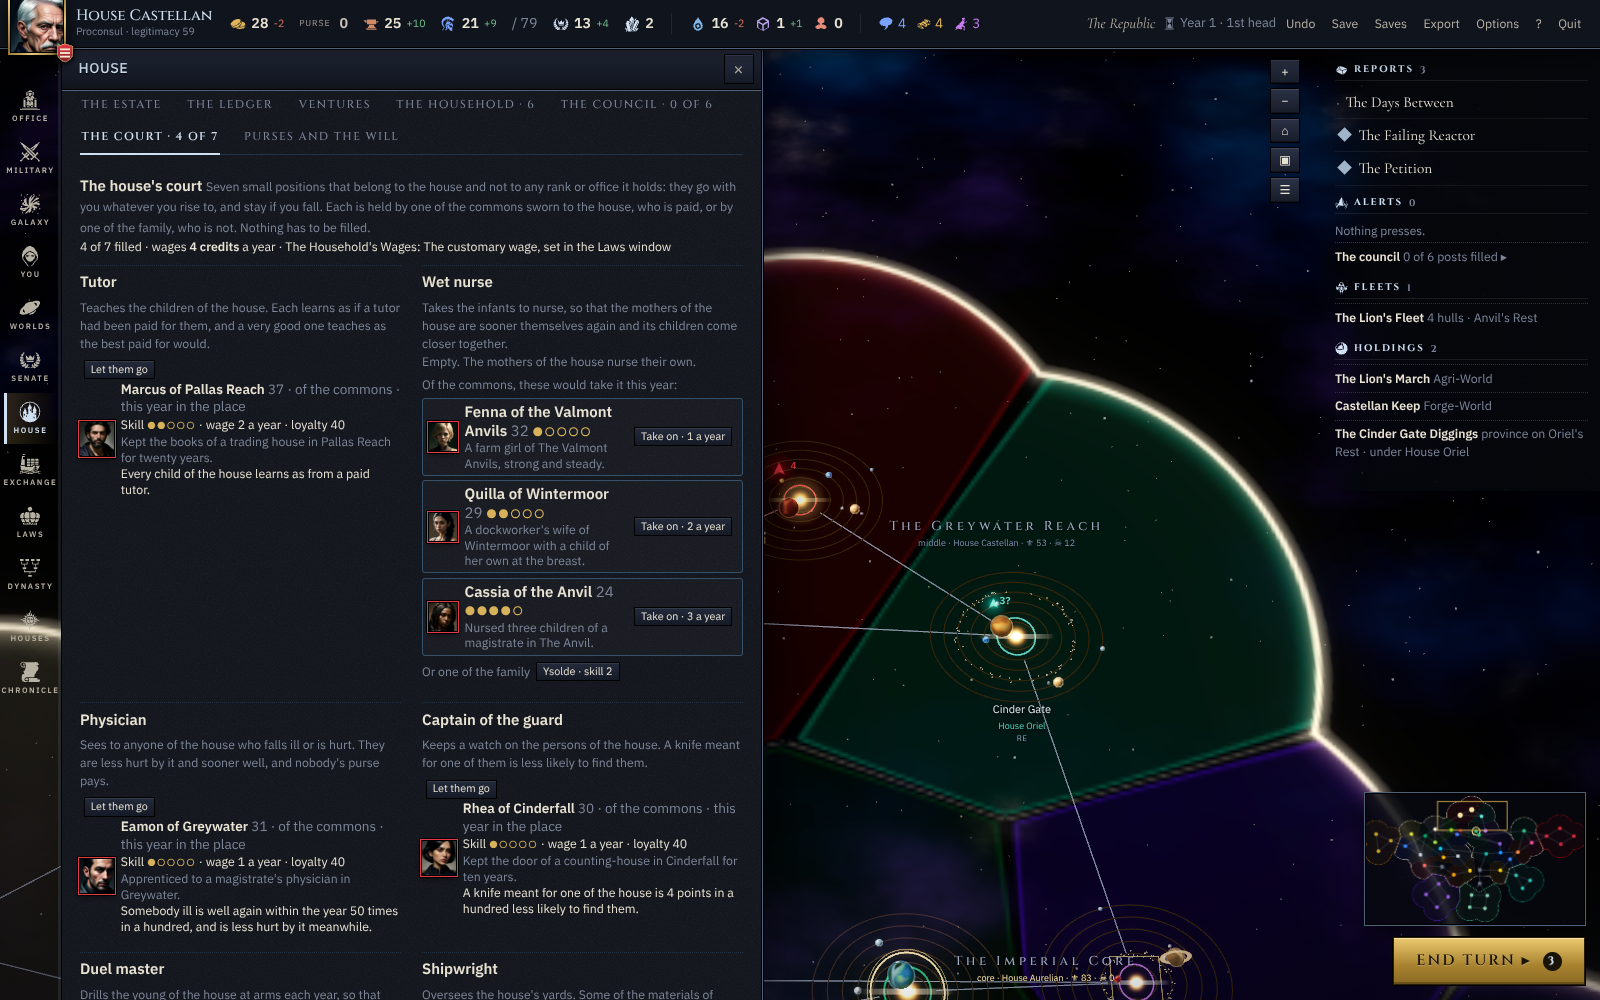
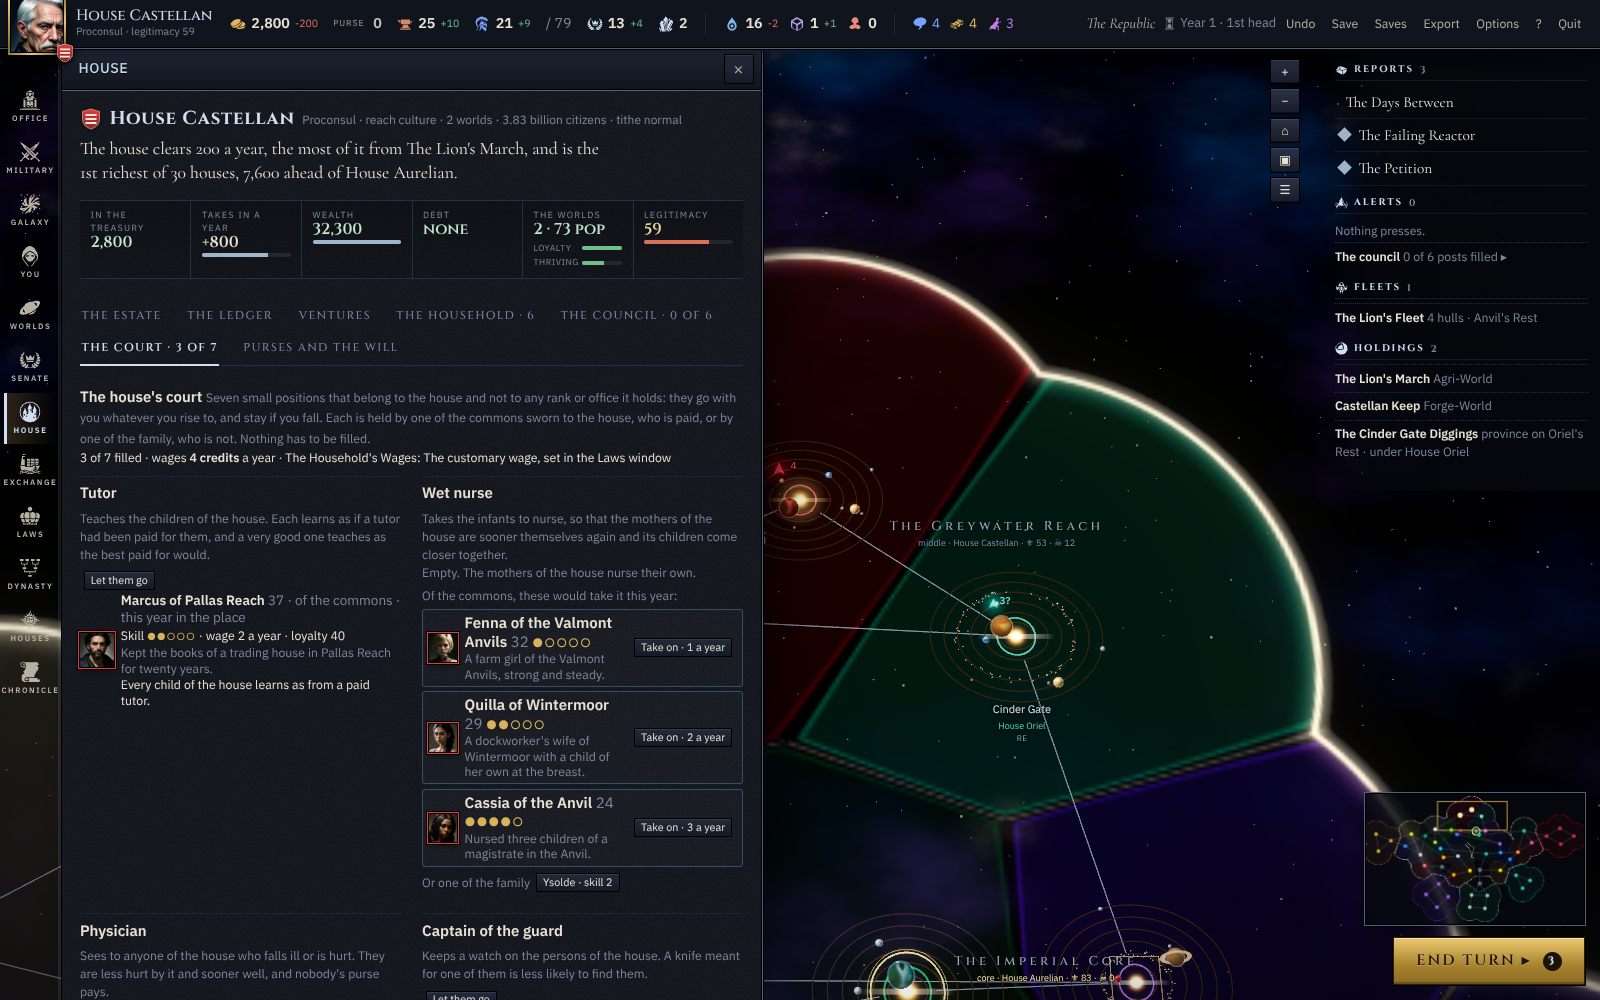
Money: a house's books are in hundreds of credits, shown as credits
A treasury that read 28 reads 2,800; a servant of the house's court is
still paid 1 to 3 credits a year. No rule, cost, yield or price changed:
the books' unit is a hundred credits and every amount a player reads goes
through Money (Show, Signed, Credits, Of, Held). Below a hundred there are
single credits (Resources.Coin) for the court's wages and scenes, and the
treasury on screen is exact to the credit. Typed amounts take credits.
Content prose and the docs quote the new figures. A test fails on any
amount written beside the word credits without Money. docs/MONEY.md.

Claude-Session: https://claude.ai/code/session_01Bt3ZZQwXj2ymKrxAugQeX5

Changed region(s): [[0.0312, 0.093, 0.4688, 1.0], [0.1562, 0.0, 0.625, 0.031], [0.5312, 0.961, 0.5938, 0.992]]

diff --git a/src/Core/Presentation/YearInBrief.cs b/src/Core/Presentation/YearInBrief.cs
@@ -57,6 +57,9 @@ public static class YearInBrief
     public static void Mark(World w)
     {
         var house = w.Protagonist != null ? w.House(w.Protagonist.HouseId) : null; if (house == null) return;
+        // the odd coin beside the hundreds, so that the year's account of credits is right to the single credit (docs/MONEY.md)
+        if (w.WorldCounters.TryGetValue(OpenKey(Resource.Coin), out int coinOpen)) w.WorldCounters[DeltaKey(Resource.Coin)] = house.Treasury.Coin - coinOpen; else w.WorldCounters.Remove(DeltaKey(Resource.Coin));
+        w.WorldCounters[OpenKey(Resource.Coin)] = house.Treasury.Coin;
         foreach (var r in Counted)
         {
             int now = house.Treasury.Get(r);
@@ -121,7 +124,15 @@ public static class YearInBrief
         // where the treasury stood and stands
         var moved = new List<string>();
         foreach (var r in Counted)
+        {
+            if (r == Resource.Credits)
+            {
+                long by = (long)w.Counter(DeltaKey(r)) * Praetoria.Core.Money.PerUnit + w.Counter(DeltaKey(Resource.Coin));
+                if (by != 0) moved.Add($"credits {Praetoria.Core.Money.Exact(house.Treasury.Total - by)} → {Praetoria.Core.Money.Held(house.Treasury)} ({(by > 0 ? "+" : "−")}{Praetoria.Core.Money.Exact(Math.Abs(by))})");
+                continue;
+            }
             if (w.WorldCounters.TryGetValue(DeltaKey(r), out int d) && d != 0) moved.Add($"{Resource.Label(r).ToLowerInvariant()} {Praetoria.Core.Money.Of(r, house.Treasury.Get(r) - d)} → {Praetoria.Core.Money.Of(r, house.Treasury.Get(r))} ({(d > 0 ? "+" : "−")}{Praetoria.Core.Money.Of(r, Math.Abs(d))})");
+        }
         if (moved.Count > 0) lines.Add(new BriefLine(Money, house.Treasury.Credits < 0 ? "warn" : "info", "Over the year, with everything you spent and everything that came in: " + string.Join("; ", moved) + ".", "house:ledger"));
         return lines.OrderBy(l => Array.IndexOf(Order, l.Kind)).ToList();
     }

diff --git a/validate_praetoria.py b/validate_praetoria.py
@@ -143,7 +143,8 @@ def validate_events(ev,tx):
                 if ef["type"] not in EFF: errors.append(f"[{eid}/{cid}] bad effect '{ef['type']}'")
                 for rf in ("role","from","to"):
                     if rf in ef and ef[rf] not in roles: errors.append(f"[{eid}/{cid}] effect unbound role '{ef[rf]}'")
-                if ef["type"] in ("adjustResource","sellAtMarket") and ef.get("resource") not in RES: errors.append(f"[{eid}/{cid}] bad resource")
+                # "coin" is single credits (docs/MONEY.md): a scene may pay or take them, but nothing is sold for them and no building costs them
+                if ef["type"] in ("adjustResource","sellAtMarket") and ef.get("resource") not in RES and not (ef["type"] == "adjustResource" and ef.get("resource") == "coin"): errors.append(f"[{eid}/{cid}] bad resource")
                 if ef["type"]=="addTrait":
                     tr=ef.get("trait"); kind=ef.get("kind","aptitude")
                     pool=NATURE if kind=="nature" else APTITUDE

diff --git a/src/Core/Presentation/Money.cs b/src/Core/Presentation/Money.cs
@@ -41,6 +41,8 @@ public static class Money
         foreach (var k in Resource.All) { if (k == Resource.Credits) continue; int by = after.Get(k) - before.Get(k); if (by != 0) parts.Add((by > 0 ? "+" : "−") + Math.Abs(by).ToString(CultureInfo.InvariantCulture) + " " + Resource.Label(k)); }
         return parts;
     }
+    /// <summary>A sum already reckoned in single credits, as a bare number: 2595 is "2,595".</summary>
+    public static string Exact(long credits) => N(credits);
     /// <summary>An amount that is already in single credits (a servant's wage): "1 credit", "6 credits".</summary>
     public static string Coin(long credits) => credits == 1 ? "1 credit" : N(credits) + " credits";
 }

diff --git a/docs/WEB_CLIENT.md b/docs/WEB_CLIENT.md
@@ -108,6 +108,16 @@ there is. They close when the pointer leaves, on a click elsewhere, on scrolling
 `tools/browser/tooltips.js` checks it in a real browser: a tooltip, one inside it and one inside that, all wholly on the
 screen, closed on leaving, turned upward at the foot of the screen.
 
+## Money on the screens
+
+A house's books are in hundreds of credits and every screen shows credits (docs/MONEY.md). Nothing in a page prints a
+number of credits itself: `Money.Show(n)` for a figure, `Money.Signed(n)` for a change, `Money.Credits(n)` with the
+word, `Money.Of(key, n)` in a loop over every resource, `Money.Held(treasury)` for a treasury to the single credit,
+and `Money.Coin(n)` only for what is already single credits (the court's wages). Where an amount is typed (a sum moved
+between purse and treasury, an offer for a venture, the creator's starting credits) the box takes credits in steps of
+100 and the command is given hundreds. A test (`MoneyTests`) reads every `.cs` and `.razor` file and fails on an amount
+written beside the word "credits" without `Money`. Picture: `tools/browser/shots/money-ledger.png`.
+
 ## The court's page
 
 House, *The court*: the seven positions of the house's own court as cards (docs/COURT.md). `CourtPanel.razor`;
